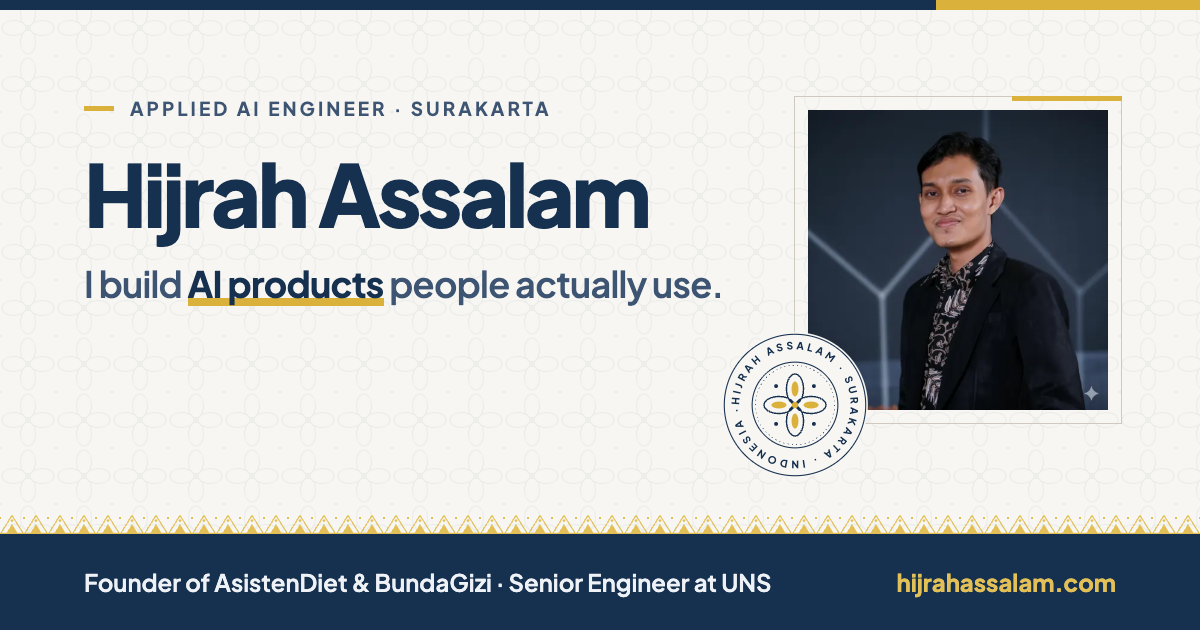
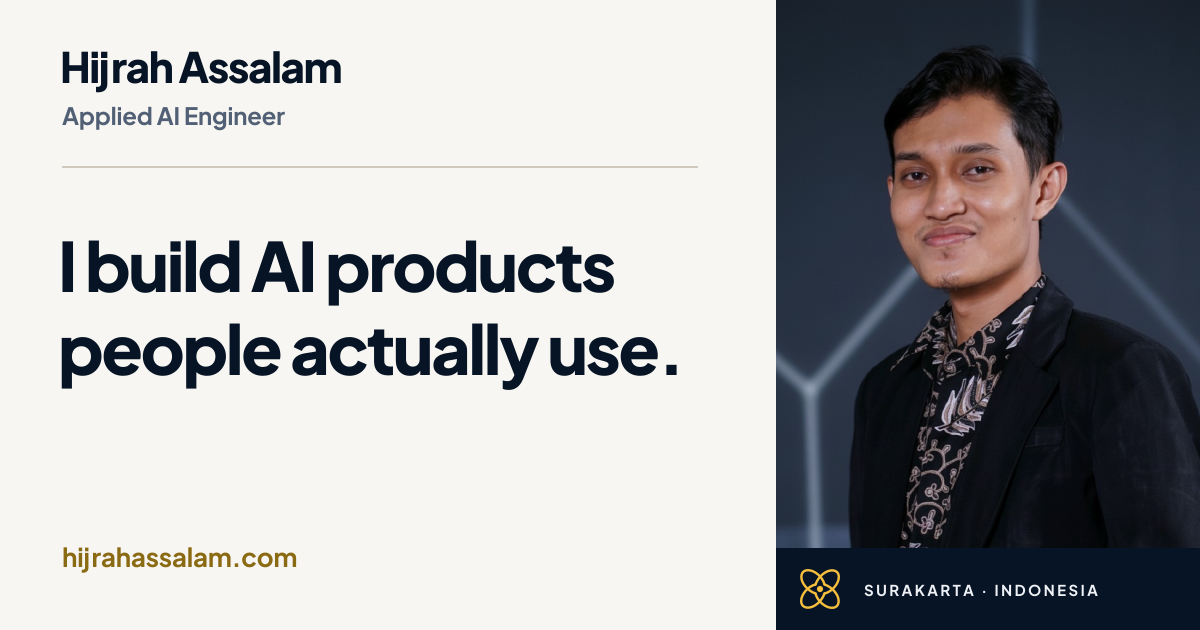
feat: adopt Kawung Convergence v1.1 brand identity
- Horizontal logo in the header (theme-aware: navy on light, gold symbol on dark)
- Brand seal (Hijrah Assalam · Surakarta · Indonesia) replaces the hand-drawn seal
- Symbol and philosophy line 'Connect the dots. Solve the problem.' in the footer
- Palette aligned to v1.1 tokens: navy #071425, gold #F6BE3D, dark bg #071425
- Muted text moved to brand slate #526075 (was 4.06:1, now 5.9:1, passes AA)
- Favicon (ICO + SVG), apple-touch icon, PWA icons and web manifest
- OG image replaced with the v1.1 share card (name, role, domain, portrait)

diff --git a/src/styles/global.css b/src/styles/global.css
@@ -1,55 +1,59 @@
 @import "tailwindcss";
 
 /* ───────────────────────── Design tokens ─────────────────────────
-   Quiet-luxury palette: paper, navy ink, a single gold accent.
-   Gold is used sparingly: rules, markers, the first bar. Never for body text. */
+   Kawung Convergence v1.1 palette (05-foundations/kc-tokens.css).
+   Gold (#F6BE3D) is decorative on light backgrounds (1.6:1): rules, markers, bars.
+   Gold text on light uses --gold-ink (4.7:1). On navy, gold is fine for anything. */
 :root {
-  --paper: #f7f6f2;
-  --surface: #ffffff;
-  --ink: #16304f;
-  --ink-soft: #3d5573;
-  --muted: #6b7a8c;
-  --line: #e4e1d8;
-  --line-strong: #cfcabd;
-  --gold: #d9b13b;
-  --gold-ink: #8a6a12;
+  --paper: #f7f6f2;        /* kc-paper */
+  --surface: #ffffff;      /* kc-surface */
+  --ink: #071425;          /* kc-navy */
+  --ink-soft: #3d5573;     /* body copy, between navy and slate (7.1:1) */
+  --muted: #526075;        /* kc-slate (5.9:1) */
+  --line: #e4e1d8;         /* kc-line */
+  --line-strong: #cfcabd;  /* kc-line-strong */
+  --gold: #f6be3d;         /* kc-gold, decorative only on light */
+  --gold-ink: #8a6a12;     /* kc-gold-ink */
   --motif: #16304f;
   --motif-opacity: 0.045;
-  --rule: #16304f;
+  --rule: #16304f;         /* kc-navy-700 */
+  --logo-mark: #071425;    /* symbol is single-ink navy on light */
   color-scheme: light;
 }
 
 @media (prefers-color-scheme: dark) {
   :root:not([data-theme="light"]) {
-    --paper: #0d1726;
-    --surface: #122036;
+    --paper: #071425;
+    --surface: #0f1f35;
     --ink: #eef1f5;
     --ink-soft: #c3ccd8;
     --muted: #8796a8;
     --line: #22324a;
     --line-strong: #31445f;
-    --gold: #e2c057;
-    --gold-ink: #e2c057;
-    --motif: #e2c057;
+    --gold: #f6be3d;
+    --gold-ink: #f6be3d;
+    --motif: #f6be3d;
     --motif-opacity: 0.035;
     --rule: #2b4a72;
+    --logo-mark: #f6be3d;
     color-scheme: dark;
   }
 }
 
 :root[data-theme="dark"] {
-  --paper: #0d1726;
-  --surface: #122036;
+  --paper: #071425;
+  --surface: #0f1f35;
   --ink: #eef1f5;
   --ink-soft: #c3ccd8;
   --muted: #8796a8;
   --line: #22324a;
   --line-strong: #31445f;
-  --gold: #e2c057;
-  --gold-ink: #e2c057;
-  --motif: #e2c057;
+  --gold: #f6be3d;
+  --gold-ink: #f6be3d;
+  --motif: #f6be3d;
   --motif-opacity: 0.035;
   --rule: #2b4a72;
+  --logo-mark: #f6be3d;
   color-scheme: dark;
 }
 
@@ -63,6 +67,10 @@
   --color-line-strong: var(--line-strong);
   --color-gold: var(--gold);
   --color-gold-ink: var(--gold-ink);
+  /* Fixed brand colours for always-navy sections, regardless of theme */
+  --color-navy: #071425;
+  --color-navy-700: #16304f;
+  --color-brand-gold: #f6be3d;
 
   --font-sans: "Plus Jakarta Sans Variable", ui-sans-serif, system-ui, sans-serif;
   --font-mono: "JetBrains Mono Variable", ui-monospace, monospace;
@@ -84,8 +92,8 @@ body {
 }
 
 ::selection {
-  background: var(--gold);
-  color: #16304f;
+  background: #f6be3d;
+  color: #071425;
 }
 
 :focus-visible {
@@ -157,15 +165,22 @@ body {
   opacity: 0.18;
 }
 .tumpal-gold {
-  background-color: #e2c057;
+  background-color: #f6be3d;
   opacity: 0.9;
 }
 
 /* Kawung tile in gold, for dark (navy) sections regardless of theme. */
 .kawung-gold::before {
-  background-color: #e2c057;
+  background-color: #f6be3d;
   opacity: 0.06;
 }
+
+/* ───────────────────────── Brand marks (Kawung Convergence v1.1) ─────────────────────────
+   Inline SVGs from src/brand/ via themeSvg(): symbol = --logo-mark, text = currentColor. */
+.kc-mark-stroke { stroke: var(--logo-mark); }
+.kc-mark-fill { fill: var(--logo-mark); }
+.kc-seal { color: var(--ink); overflow: visible; }
+.kc-seal-bg { fill: var(--paper); }
 
 /* ───────────────────────── Prose (case studies) ───────────────────────── */
 .prose-case {

diff --git a/src/brand/theme-svg.ts b/src/brand/theme-svg.ts
@@ -1,0 +1,28 @@
+// Turns a single-ink (navy) Kawung Convergence production SVG into a theme-aware inline SVG:
+// the symbol takes --logo-mark (navy on light, gold on dark) and everything else takes currentColor.
+interface Options {
+  label?: string;
+  className?: string;
+  viewBox?: string;
+  /** Extra markup inserted right after the opening <svg> tag (e.g. a background disc). */
+  prepend?: string;
+}
+
+export function themeSvg(raw: string, { label, className = '', viewBox, prepend = '' }: Options = {}): string {
+  let s = raw
+    .replace(/<title[^>]*>[\s\S]*?<\/title>/, '')
+    .replace(/\s(width|height)="[^"]*"/g, (m, _attr, offset) => (offset < raw.indexOf('>') ? '' : m))
+    .replace(/\srole="img"/, '')
+    .replace(/\saria-labelledby="title"/, '');
+
+  // Symbol: four arcs share one stroked group; the centre dot is r=21.2.
+  s = s.replace(/stroke="#071425"(\s+stroke-width="16\.4")/g, 'class="kc-mark-stroke"$1');
+  s = s.replace(/(r="21\.2")\s+fill="#071425"/g, '$1 class="kc-mark-fill"');
+  // Everything else (letters, seal ring) follows the text colour.
+  s = s.replace(/stroke="#071425"/g, 'stroke="currentColor"').replace(/fill="#071425"/g, 'fill="currentColor"');
+
+  if (viewBox) s = s.replace(/viewBox="[^"]*"/, `viewBox="${viewBox}"`);
+
+  const a11y = label ? `role="img" aria-label="${label}"` : 'aria-hidden="true" focusable="false"';
+  return s.replace(/<svg\b/, `<svg ${a11y} class="${className}"`).replace(/(<svg\b[^>]*>)/, `$1${prepend}`);
+}

diff --git a/README.md b/README.md
@@ -9,7 +9,8 @@ Production-grade engineer building systems that serve thousands of users daily a
 ## Tech Stack
 
 - **Framework:** [Astro](https://astro.build) (static output)
-- **Styling:** Tailwind CSS v4, design tokens in `src/styles/global.css` (paper / navy / gold, kawung motif)
+- **Brand:** Kawung Convergence v1.1. Production SVGs in `src/brand/` are rendered theme-aware by `src/brand/theme-svg.ts` (symbol = `--logo-mark`, text = `currentColor`). Icons, manifest and OG share card in `public/`
+- **Styling:** Tailwind CSS v4, design tokens in `src/styles/global.css` (Kawung Convergence palette, kawung motif, tumpal band)
 - **Type:** Plus Jakarta Sans (self-hosted via Fontsource), JetBrains Mono for small metadata
 - **Content:** case studies as Markdown in `src/content/work/`, profile facts in `src/data/profile.ts`
 - **Analytics:** Plausible + GA4 (`public/analytics.js`)
@@ -39,7 +40,8 @@ src/
 ├── content/work/*.md          # One file per project (add a file = add a case study)
 ├── data/profile.ts            # Single source of truth: links, experience, recognition
 ├── layouts/BaseLayout.astro   # <head>, SEO, JSON-LD, analytics
-├── components/                # Header, footer, page header, batik seal, tumpal band
+├── brand/                     # Kawung Convergence production SVGs + themeSvg helper
+├── components/                # Header, footer, logo, symbol, seal, theme switcher, tumpal band
 └── styles/global.css          # Design system and batik motifs
 public/
 ├── analytics.js               # GA4 event tracking
